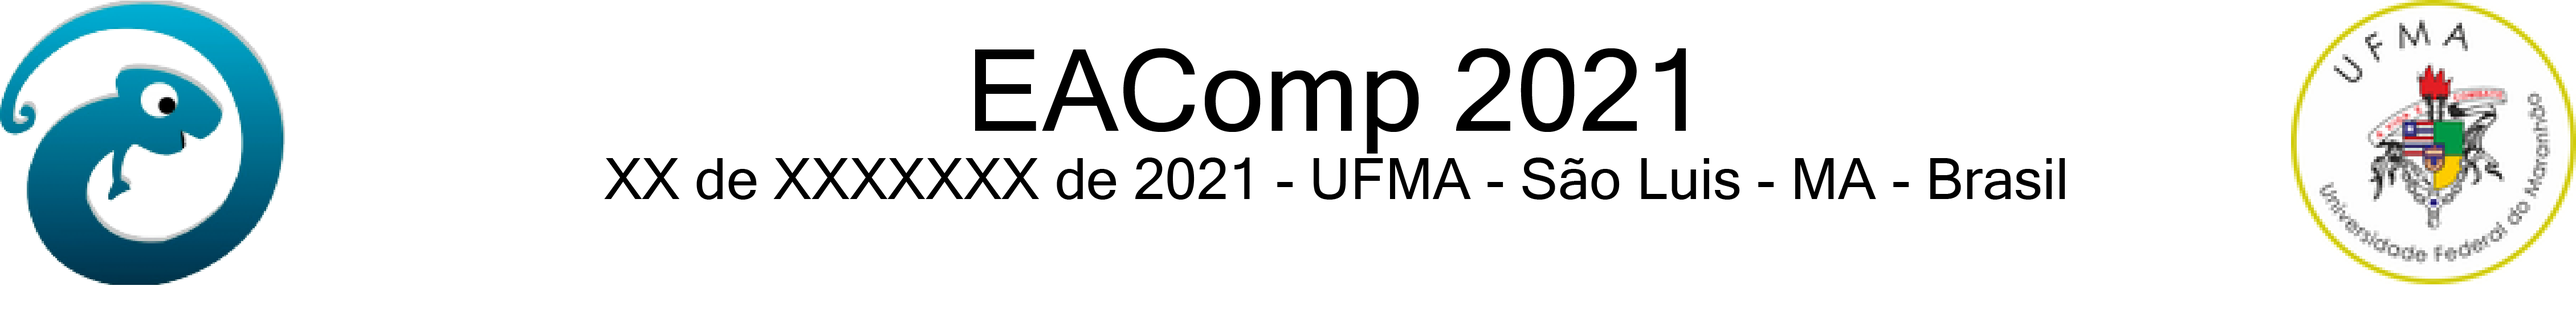
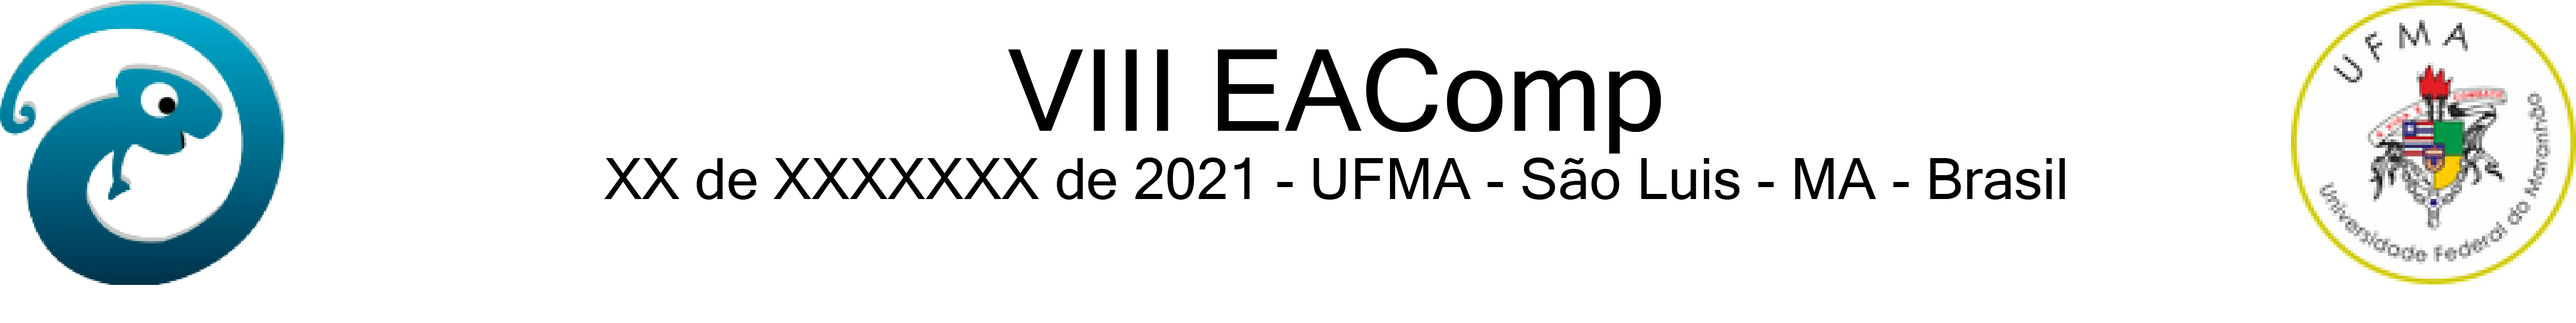
Alterações pontuais

Changed region(s): [[0.3743, 0.1496, 0.6551, 0.4789]]

diff --git a/index.html b/index.html
@@ -3,7 +3,7 @@
 
 <head>
     <meta charset="utf-8">
-    <title>Template Geral Evento</title>
+    <title>VIII EAComp</title>
     <meta content="width=device-width, initial-scale=1.0" name="viewport">
     <meta content="Template, Evento, petcomp, " name="keywords">
     <meta content="PETCOMP-UFMA" name="author">
@@ -125,10 +125,17 @@
             <div class="carousel-inner">
                 <div id="intro" class="carousel-item active">
                     <div class="intro-container wow fadeIn">
-                        <h1 class="mb-4 pb-0">Evento <span>EAComp</span><br> XX de xxxxxxxxxx de 2021<br><span>UFMA</span><br> </h1> 
+                        <h1 class="mb-4 pb-0"><span>EAComp</span><br> XX de xxxxxxxxxx de 2021<br><span>UFMA</span><br> </h1> 
                         
-                      <a href="#" class="venobox play-btn mb-4 vbox-item" data-vbtype="video" data-autoplay="true"></a>
                         <a href="#about" class="about-btn scrollto">Sobre o Evento</a>
+                    </div>
+                </div>
+                <div id="intro-2" class="carousel-item item-2">
+                    <div class="intro-container wow fadeOut">
+                        <h1 class="mb-4 pb-0"><span>Oriente</span>-se!!! <br>Conheça o <span>CCET</span> </h1>
+                        <p class="mb-4 pb-0">Assista nosso Vídeo!</p>
+                        
+                        <a href="#" class="venobox play-btn mb-4 vbox-item" data-vbtype="video" data-autoplay="true"></a> 
                     </div>
                 </div>
             <a class="carousel-control-prev" href="#carouselExampleControls" role="button" data-slide="prev">
@@ -227,7 +234,7 @@
         </div>
 
         <div class="copyright">
-            <strong>Evento - XXXX XXXX</strong>
+            <strong>PETComp - 2021</strong>
         </div>
     </footer>
   

diff --git a/comissao.html b/comissao.html
@@ -3,7 +3,7 @@
 
 <head>
     <meta charset="utf-8">
-    <title>Template Geral Evento</title>
+    <title>VIII EAComp - Comissão Organizadora</title>
     <meta content="width=device-width, initial-scale=1.0" name="viewport">
     <meta content="Template, Evento, petcomp, " name="keywords">
     <meta content="PETCOMP-UFMA" name="author">

diff --git a/trabalhos.html b/trabalhos.html
@@ -3,7 +3,7 @@
 
 <head>
     <meta charset="utf-8">
-    <title>Template Geral Evento</title>
+    <title>VIII EAComp - Chamada de Trabalhos</title>
     <meta content="width=device-width, initial-scale=1.0" name="viewport">
     <meta content="Template, Evento, petcomp, " name="keywords">
     <meta content="PETCOMP-UFMA" name="author">

diff --git a/competitiva.html b/competitiva.html
@@ -3,7 +3,7 @@
 
 <head>
     <meta charset="utf-8">
-    <title>Template Geral Evento</title>
+    <title>VIII EAComp - Mostra Competitiva</title>
     <meta content="width=device-width, initial-scale=1.0" name="viewport">
     <meta content="Template, Evento, petcomp, " name="keywords">
     <meta content="PETCOMP-UFMA" name="author">

diff --git a/deliberacoes.html b/deliberacoes.html
@@ -3,7 +3,7 @@
 
 <head>
     <meta charset="utf-8">
-    <title>Template Geral Evento</title>
+    <title>VIII EAComp - Deliberações</title>
     <meta content="width=device-width, initial-scale=1.0" name="viewport">
     <meta content="Template, Evento, petcomp, " name="keywords">
     <meta content="PETCOMP-UFMA" name="author">

diff --git a/certificados.html b/certificados.html
@@ -3,7 +3,7 @@
 
 <head>
     <meta charset="utf-8">
-    <title>Template Geral Evento</title>
+    <title>TVIII EAComp - Certificados</title>
     <meta content="width=device-width, initial-scale=1.0" name="viewport">
     <meta content="Template, Evento, petcomp, " name="keywords">
     <meta content="PETCOMP-UFMA" name="author">

diff --git a/programacao.html b/programacao.html
@@ -3,7 +3,7 @@
 
 <head>
     <meta charset="utf-8">
-    <title>Template Geral Evento</title>
+    <title>VIII EAComp - Programação</title>
     <meta content="width=device-width, initial-scale=1.0" name="viewport">
     <meta content="Template, Evento, petcomp, " name="keywords">
     <meta content="PETCOMP-UFMA" name="author">

diff --git a/inscricoes.html b/inscricoes.html
@@ -3,7 +3,7 @@
 
 <head>
     <meta charset="utf-8">
-    <title>Template Geral Evento</title>
+    <title>VIII EAComp - Inscrições</title>
     <meta content="width=device-width, initial-scale=1.0" name="viewport">
     <meta content="Template, Evento, petcomp, " name="keywords">
     <meta content="PETCOMP-UFMA" name="author">

diff --git a/documentos-oficiais.html b/documentos-oficiais.html
@@ -3,7 +3,7 @@
 
 <head>
     <meta charset="utf-8">
-    <title>Template Geral Evento</title>
+    <title>VIII EAComp - Documentos</title>
     <meta content="width=device-width, initial-scale=1.0" name="viewport">
     <meta content="Template, Evento, petcomp, " name="keywords">
     <meta content="PETCOMP-UFMA" name="author">

diff --git a/anais.html b/anais.html
@@ -3,7 +3,7 @@
 
 <head>
     <meta charset="utf-8">
-    <title>Template Geral Evento</title>
+    <title>VIII EAComp - Anais</title>
     <meta content="width=device-width, initial-scale=1.0" name="viewport">
     <meta content="Template, Evento, petcomp, " name="keywords">
     <meta content="PETCOMP-UFMA" name="author">

diff --git a/local.html b/local.html
@@ -3,7 +3,7 @@
 
 <head>
     <meta charset="utf-8">
-    <title>Template Geral Evento</title>
+    <title>VIII EAComp - Local</title>
     <meta content="width=device-width, initial-scale=1.0" name="viewport">
     <meta content="Template, Evento, petcomp, " name="keywords">
     <meta content="PETCOMP-UFMA" name="author">

diff --git a/maratona.html b/maratona.html
@@ -3,7 +3,7 @@
 
 <head>
     <meta charset="utf-8">
-    <title>Template Geral Evento</title>
+    <title>VIII EAComp - Local</title>
     <meta content="width=device-width, initial-scale=1.0" name="viewport">
     <meta content="Template, Evento, petcomp, " name="keywords">
     <meta content="PETCOMP-UFMA" name="author">
